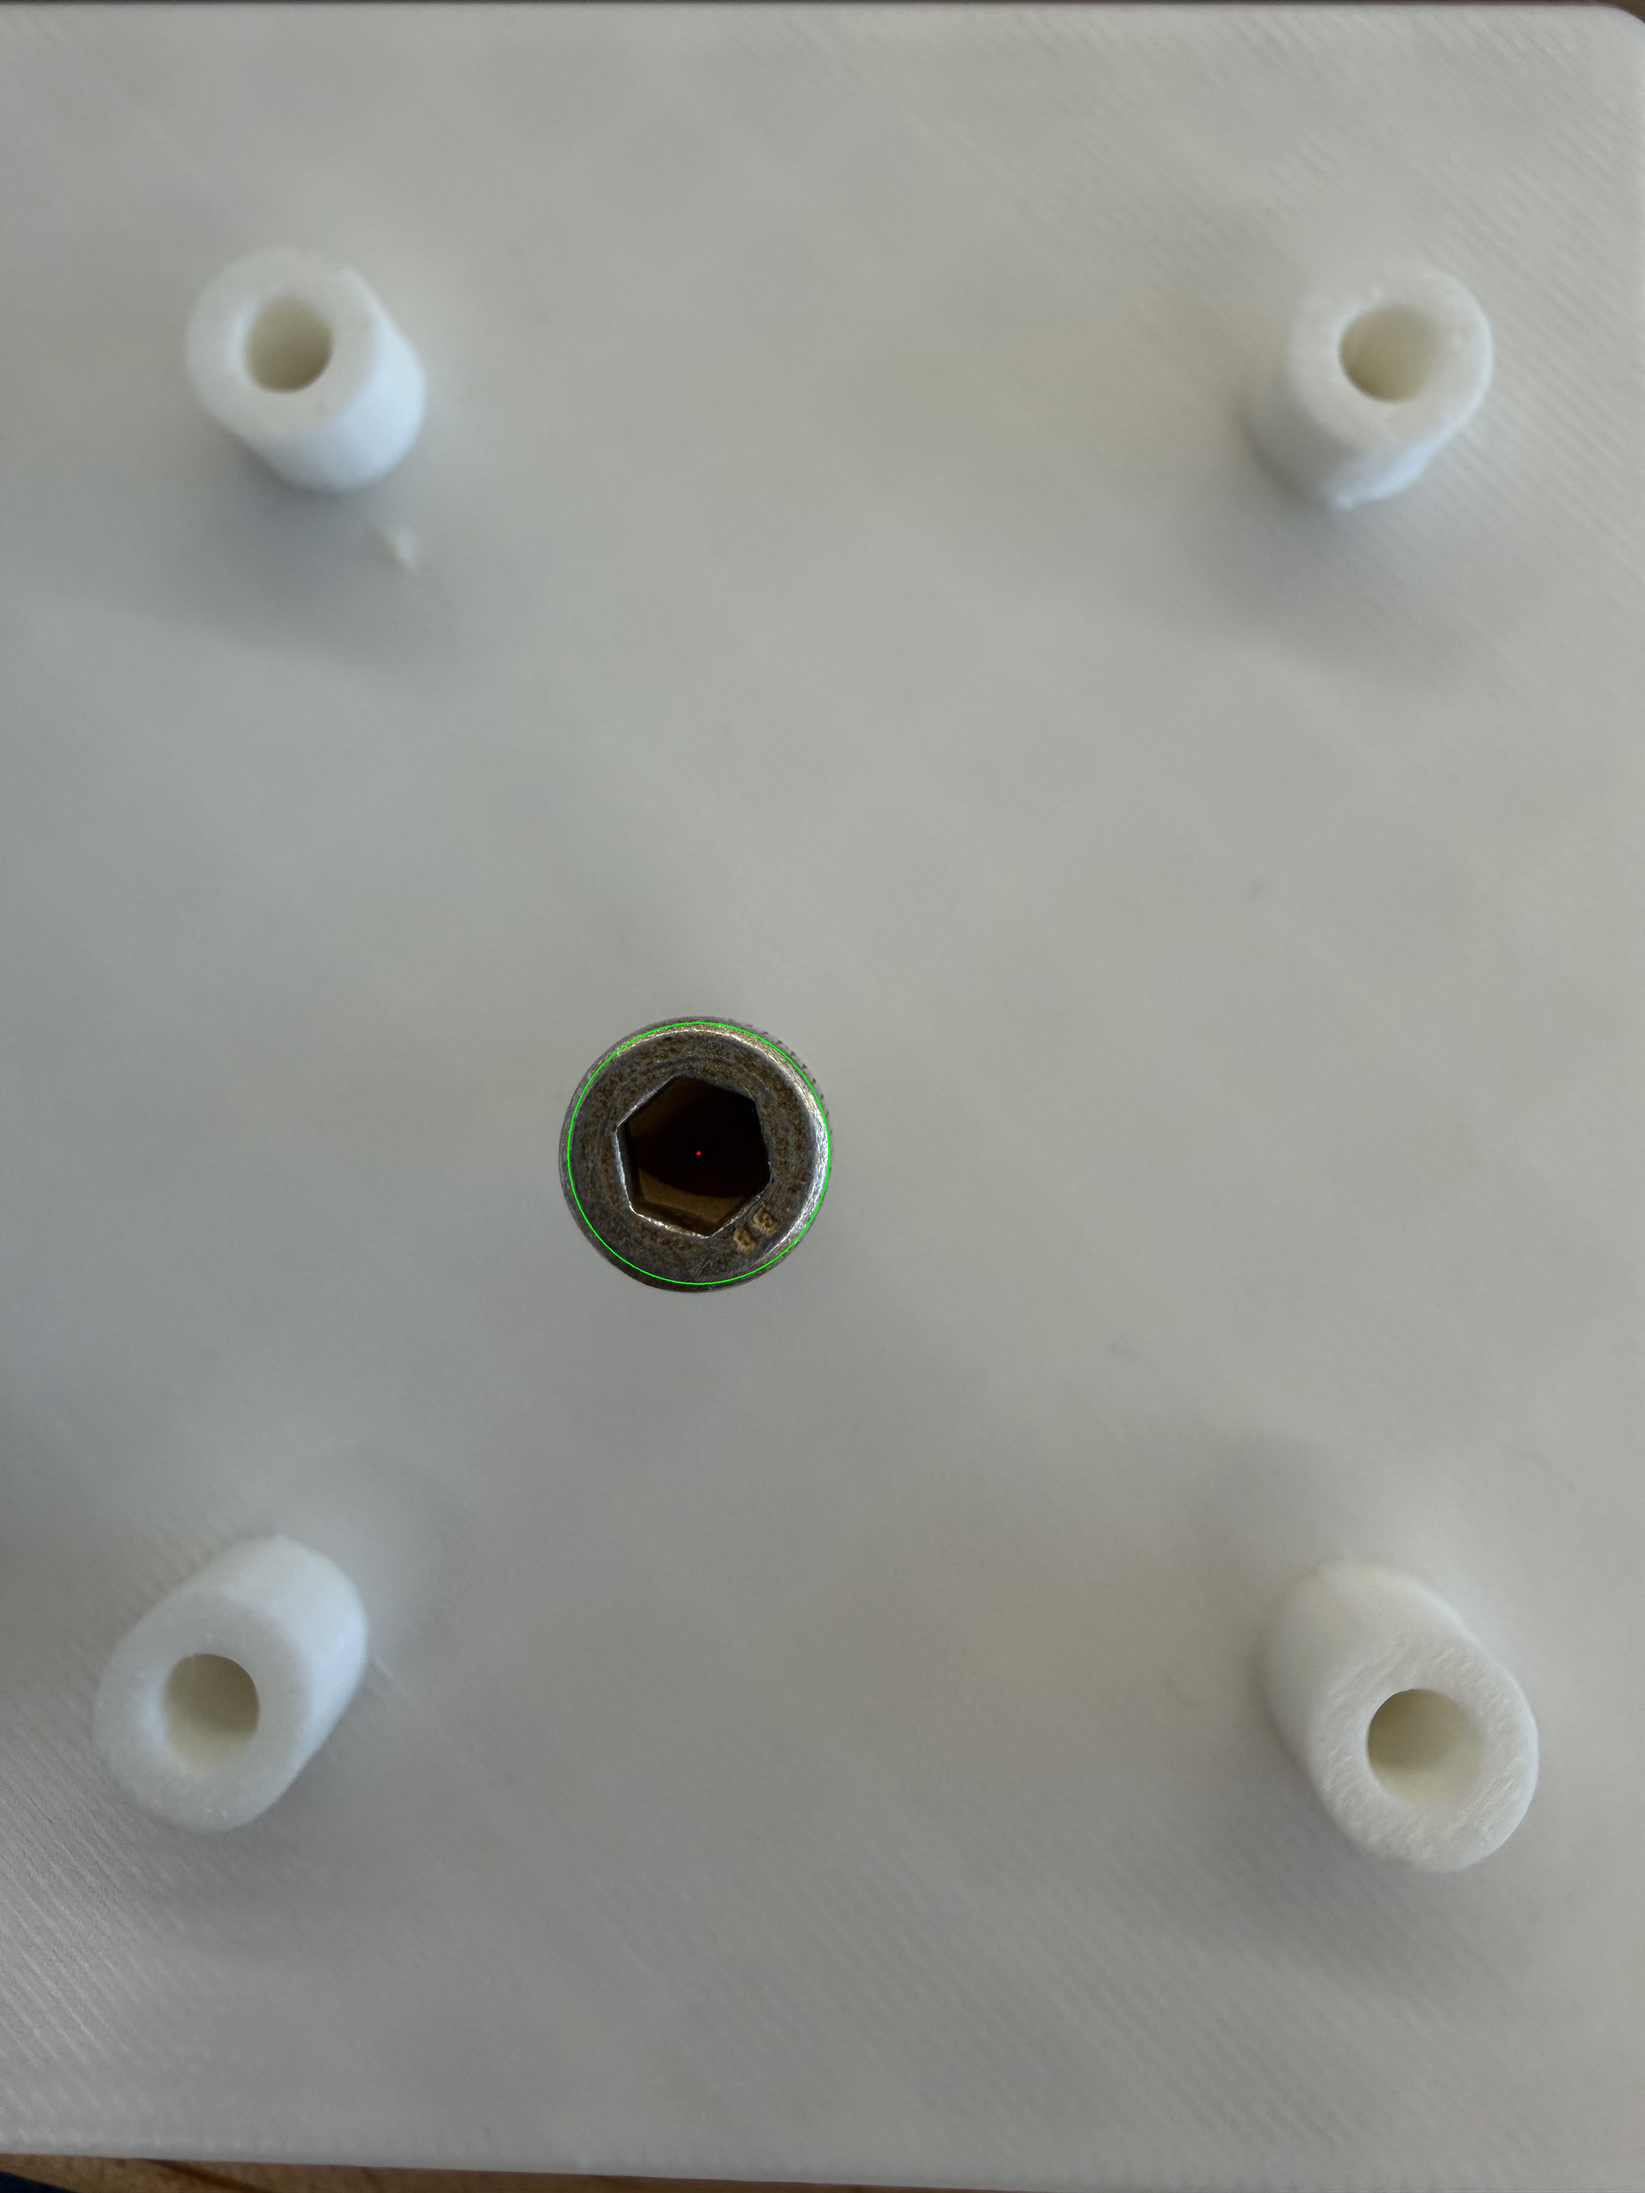
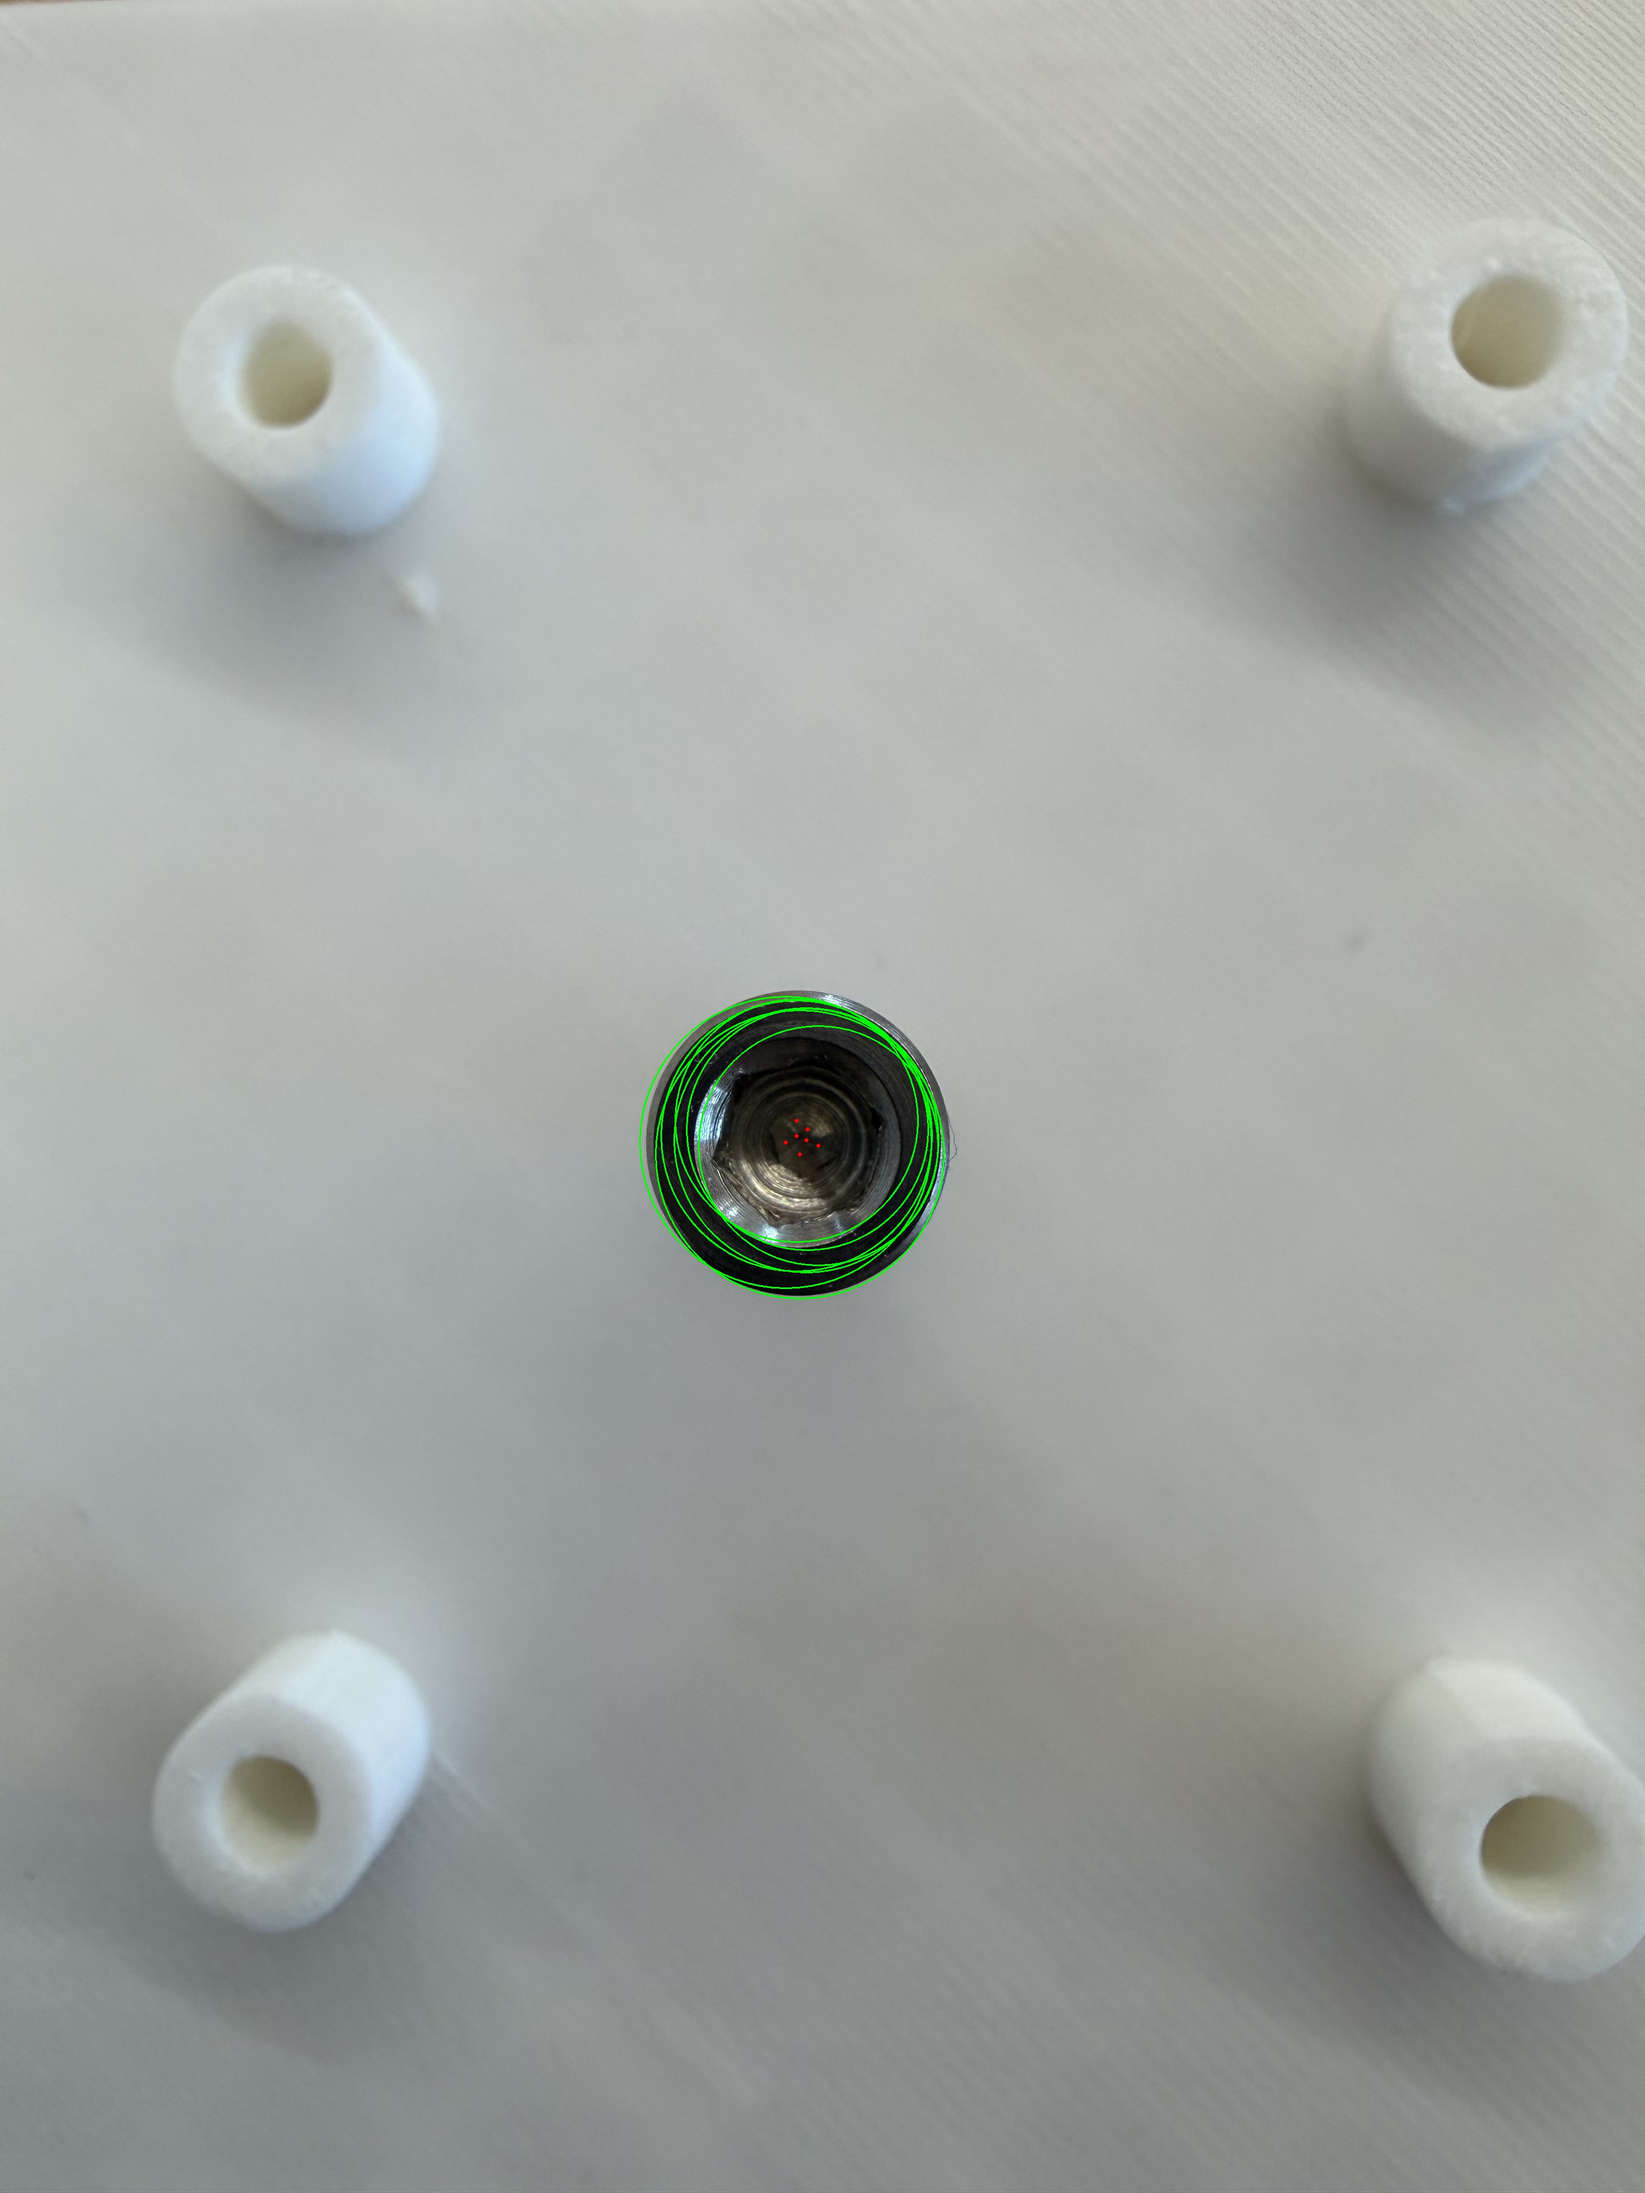
Added a new folder

diff --git a/standardized_markings.py b/standardized_markings.py
@@ -32,10 +32,10 @@ grayCB = cv.cvtColor(imgCB, cv.COLOR_BGR2GRAY)
 cv.imwrite('Photos/output/Gray Counterfeit Black.jpg', grayCB)
 
 #gray = cv.GaussianBlur(gray, (7, 7), 0)
-blur = cv.medianBlur(gray,301) #number must be odd
-cimg = img.copy()
+blur = cv.medianBlur(grayCT,301) #number must be odd
+cimg = imgCT.copy()
  
-circles = cv.HoughCircles(blur,cv.HOUGH_GRADIENT,1,20,param1=50,param2=31,minRadius=210,maxRadius=250)
+circles = cv.HoughCircles(blur,cv.HOUGH_GRADIENT,1,20,param1=50,param2=32,minRadius=210,maxRadius=300)
 
 if circles is not None: 
     circles = np.uint16(np.around(circles))
